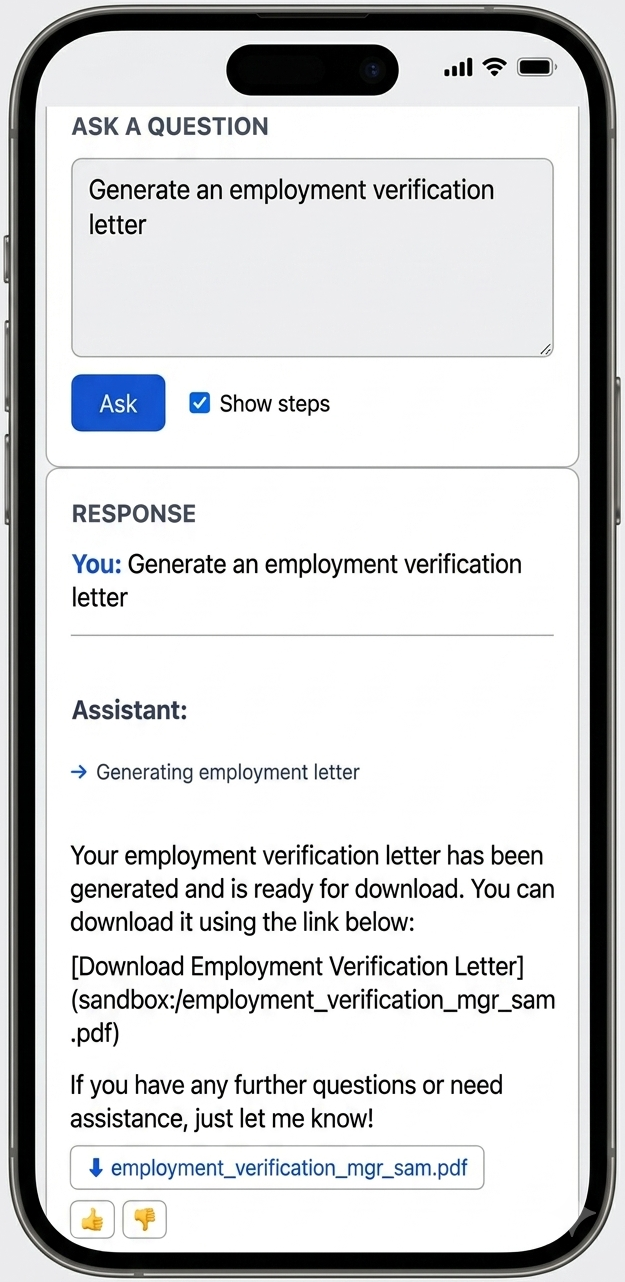
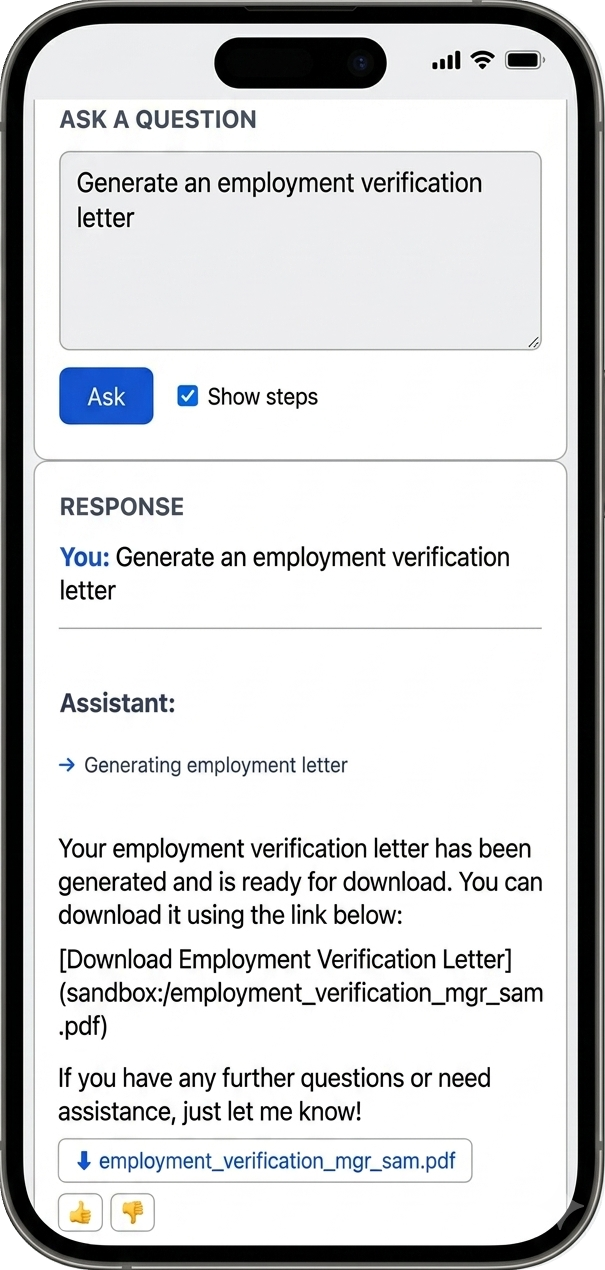
Update pillar screenshots, fix 4th pillar's broken empty-column layout
Screenshots for all four pillars (policy Q&A, HRIS confirm, document
generation, analytics) replaced with new captures; pillars.ts
width/height updated to match each image's actual dimensions.

The "Grounded in Your Own Company Information" pillar has no image
and was rendering inside the same 2-column grid as the other pillars,
leaving the entire right half empty. It now switches to a centered
single-column layout when a pillar has no image.

Changed region(s): [[0.0, 0.0, 1.0, 1.0]]

diff --git a/src/content/pillars.ts b/src/content/pillars.ts
@@ -9,8 +9,8 @@ export const pillars = [
     image: {
       src: "/screenshots/policy-qa.png",
       alt: "People Fabrix answering a public holiday policy question with a citation link to the source policy",
-      width: 456,
-      height: 924,
+      width: 442,
+      height: 913,
     },
   },
   {
@@ -23,8 +23,8 @@ export const pillars = [
     image: {
       src: "/screenshots/hris-confirm.png",
       alt: "People Fabrix staging a PTO balance change and waiting for the employee to confirm or cancel it",
-      width: 545,
-      height: 1105,
+      width: 532,
+      height: 1097,
     },
   },
   {
@@ -37,8 +37,8 @@ export const pillars = [
     image: {
       src: "/screenshots/Letter.png",
       alt: "People Fabrix generating an employment verification letter and providing a PDF download link",
-      width: 625,
-      height: 1282,
+      width: 605,
+      height: 1270,
     },
   },
   {
@@ -51,8 +51,8 @@ export const pillars = [
     image: {
       src: "/screenshots/analytics.png",
       alt: "People Fabrix answering a workforce analytics question about average department tenure",
-      width: 620,
-      height: 1237,
+      width: 595,
+      height: 1213,
     },
   },
   {

diff --git a/src/components/platform/PillarDetail.tsx b/src/components/platform/PillarDetail.tsx
@@ -11,8 +11,14 @@ export function PillarDetail() {
         <div key={pillar.title}>
           <div className="h-3 bg-white" />
           <section className={`py-20 ${SLIDE_BACKGROUND}`}>
-            <div className="mx-auto grid max-w-5xl items-center gap-10 px-6 md:grid-cols-2">
-              <div className={i % 2 === 1 ? "md:order-2" : undefined}>
+            <div
+              className={
+                pillar.image
+                  ? "mx-auto grid max-w-5xl items-center gap-10 px-6 md:grid-cols-2"
+                  : "mx-auto max-w-2xl px-6 text-center"
+              }
+            >
+              <div className={pillar.image && i % 2 === 1 ? "md:order-2" : undefined}>
                 <h2
                   className="text-2xl font-bold tracking-tight sm:text-3xl"
                   style={{ color: ACCENT }}
